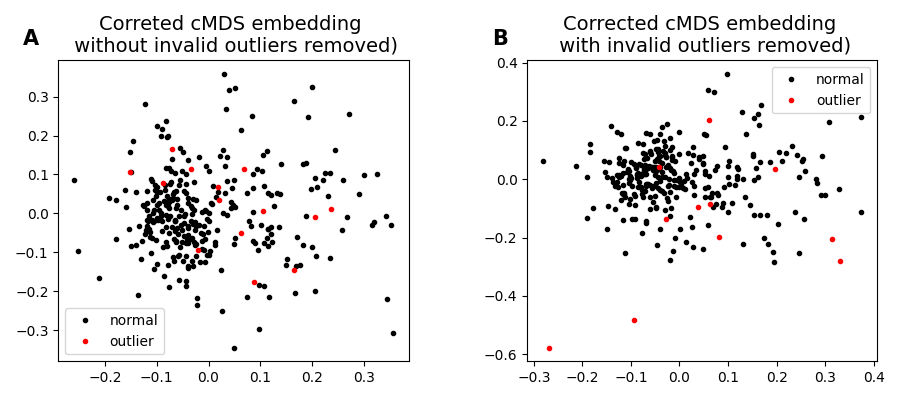
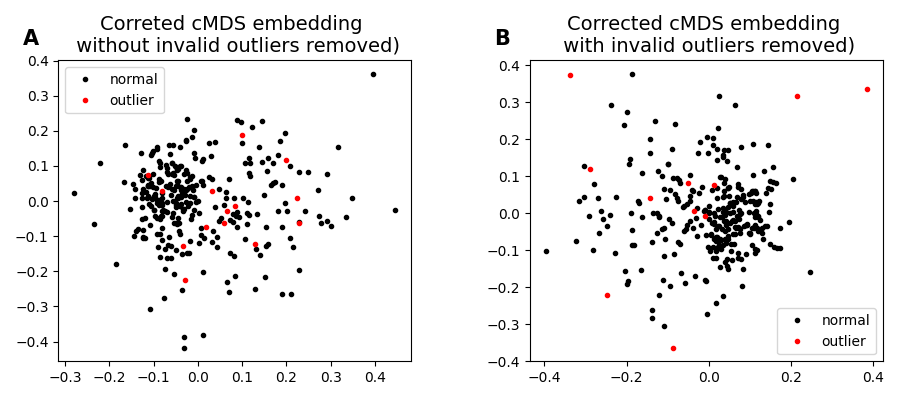
added cells_control_2D.png

diff --git a/exp_cells/test_cells_datasets.py b/exp_cells/test_cells_datasets.py
@@ -146,26 +146,33 @@ for i in range(nb_cells):
 plt.savefig("./outputs/cells_"+file_id+"_outlier_normal.png")
 plt.close()
 
-# """ Plot cMDS embedding in 2D using the two largest eigenvalues """
 
-# plt.figure(3)
-# blue_outlier_idx = -1
-# _, _, Xe = cMDS(target_matrix)
-# plt.plot(Xe[normal_indices,0],Xe[normal_indices,1],'.', color='black')
-# plt.plot(Xe[outlier_indices,0],Xe[outlier_indices,1],'.',color='red')
-# for i in range(Xe.shape[0]):
-#     if 0.6 < Xe[i, 0] and Xe[i, 0] < 0.7:
-#         blue_outlier_idx = i
-# plt.title("cMDS embedding")
-# plt.savefig("outputs/cells_"+file_id+"_cMDS.png")
-# plt.close()
+""" Plot cMDS embedding in 2D using the two largest eigenvalues """
+# plot MDS vs MDS + nSimplices (with correct) + MDS in 2D
 
-# fig = plt.figure(4)
-# plt.plot(cell[:, 0], cell[:, 1], color="red")
-# plt.axis('equal')
-# plt.axis('off')
-# plt.title('blue cMDS outlier but not detected')
-# plt.savefig('./outputs/cells_'+str(blue_outlier_idx)+".png")
+fig, (ax1, ax2) = plt.subplots(1, 2, figsize=(8,3))
+
+# plot original graphs with outliers added 
+va, ve, Xe = cMDS(target_matrix)
+ax1.plot(Xe[normal_indices,0],Xe[normal_indices,1],'.', color='black', label="normal")
+ax1.plot(Xe[outlier_indices,0],Xe[outlier_indices,1],'.',color='red', label="outlier")
+ax1.text(-0.1, 1.05, 'A', transform=ax1.transAxes, 
+    size=15, weight='bold')
+ax1.grid()
+ax1.legend()
+ax1.set_title("Outliers added")
+
+# plot corrected outliers 
+va, ve, Xe = cMDS(corr_dis_sq)   
+ax2.plot(Xe[normal_indices,0],Xe[normal_indices,1],'.', color='black', label="normal")
+ax2.plot(Xe[outlier_indices,0],Xe[outlier_indices,1],'.',color='red', label="outlier")
+ax2.set_title("Corrected data")
+ax2.text(-0.1, 1.05, 'B', transform=ax2.transAxes, 
+    size=15, weight='bold')
+ax2.grid()
+ax2.legend()
+plt.savefig("./outputs/cells_"+file_id+"_2D.png")
+plt.close()
 
 """ Computes the corrected coordinates after removing the abnormal outliers """
 cMDS_fig_path = "outputs/cells_"+file_id+"_cMDS_combined.png"

diff --git a/exp_synthetic/test_synthetic_datasets.py b/exp_synthetic/test_synthetic_datasets.py
@@ -413,7 +413,7 @@ if not os.path.exists(dim2_fig_path) or  not os.path.exists(before_correction_dy
     ax2.legend()
     ax2.set_title("Outliers added")
 
-    # plot correct outliers 
+    # plot corrected outliers 
     va, ve, Xe = cMDS(corr_dis_sq)   
     ax3.plot(Xe[normal_indices,0],Xe[normal_indices,1],'.', color='black', label="normal")
     ax3.plot(Xe[outlier_indices,0],Xe[outlier_indices,1],'.',color='red', label="outlier")

diff --git a/exp_synthetic/test_synthetic_outlier_fraction.py b/exp_synthetic/test_synthetic_outlier_fraction.py
@@ -43,7 +43,7 @@ for i in range(len(res_outlier_indices_list)):
     print("subspace_dim is:", subspace_dim)
 
 
-plt.figure()
+plt.figure(figsize=(6.4, 5.2))
 props = np.arange(prop_incre, prop_incre+len(dim_pred_diff)*prop_incre, prop_incre)
 plt.plot(props, dim_pred_diff, c="red", label = "after correction")
 plt.plot(props, dim_raw_diff, c="black", label = "before correction")
